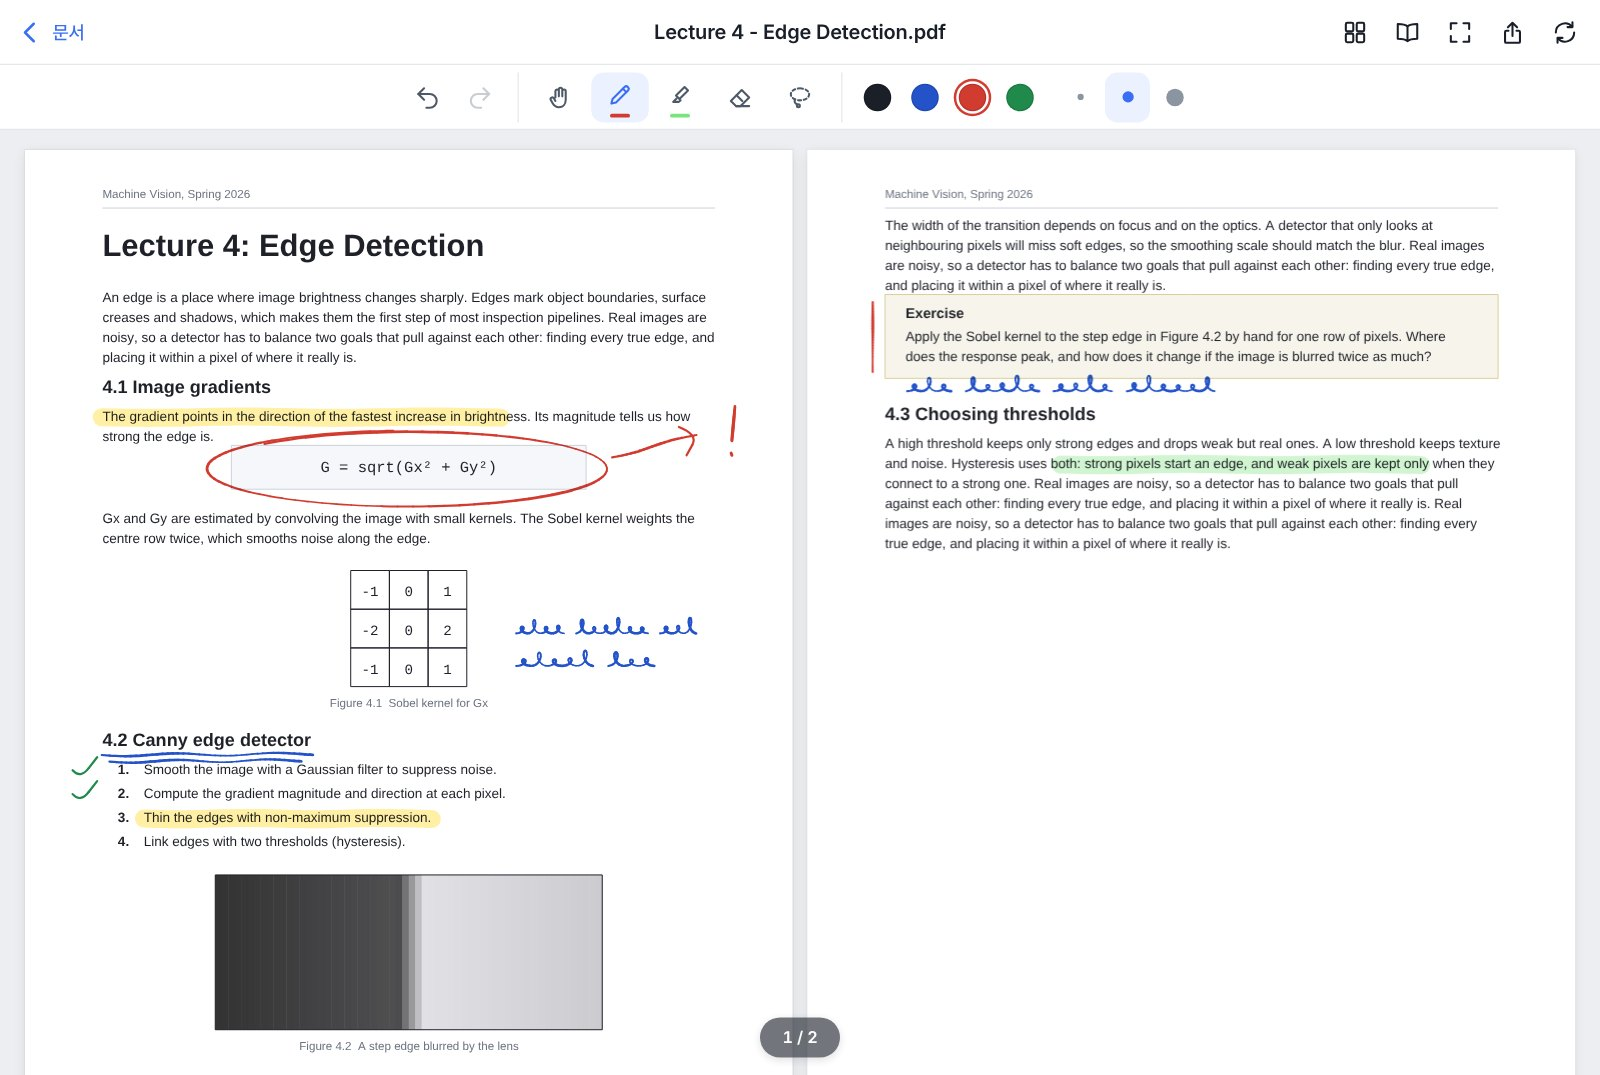
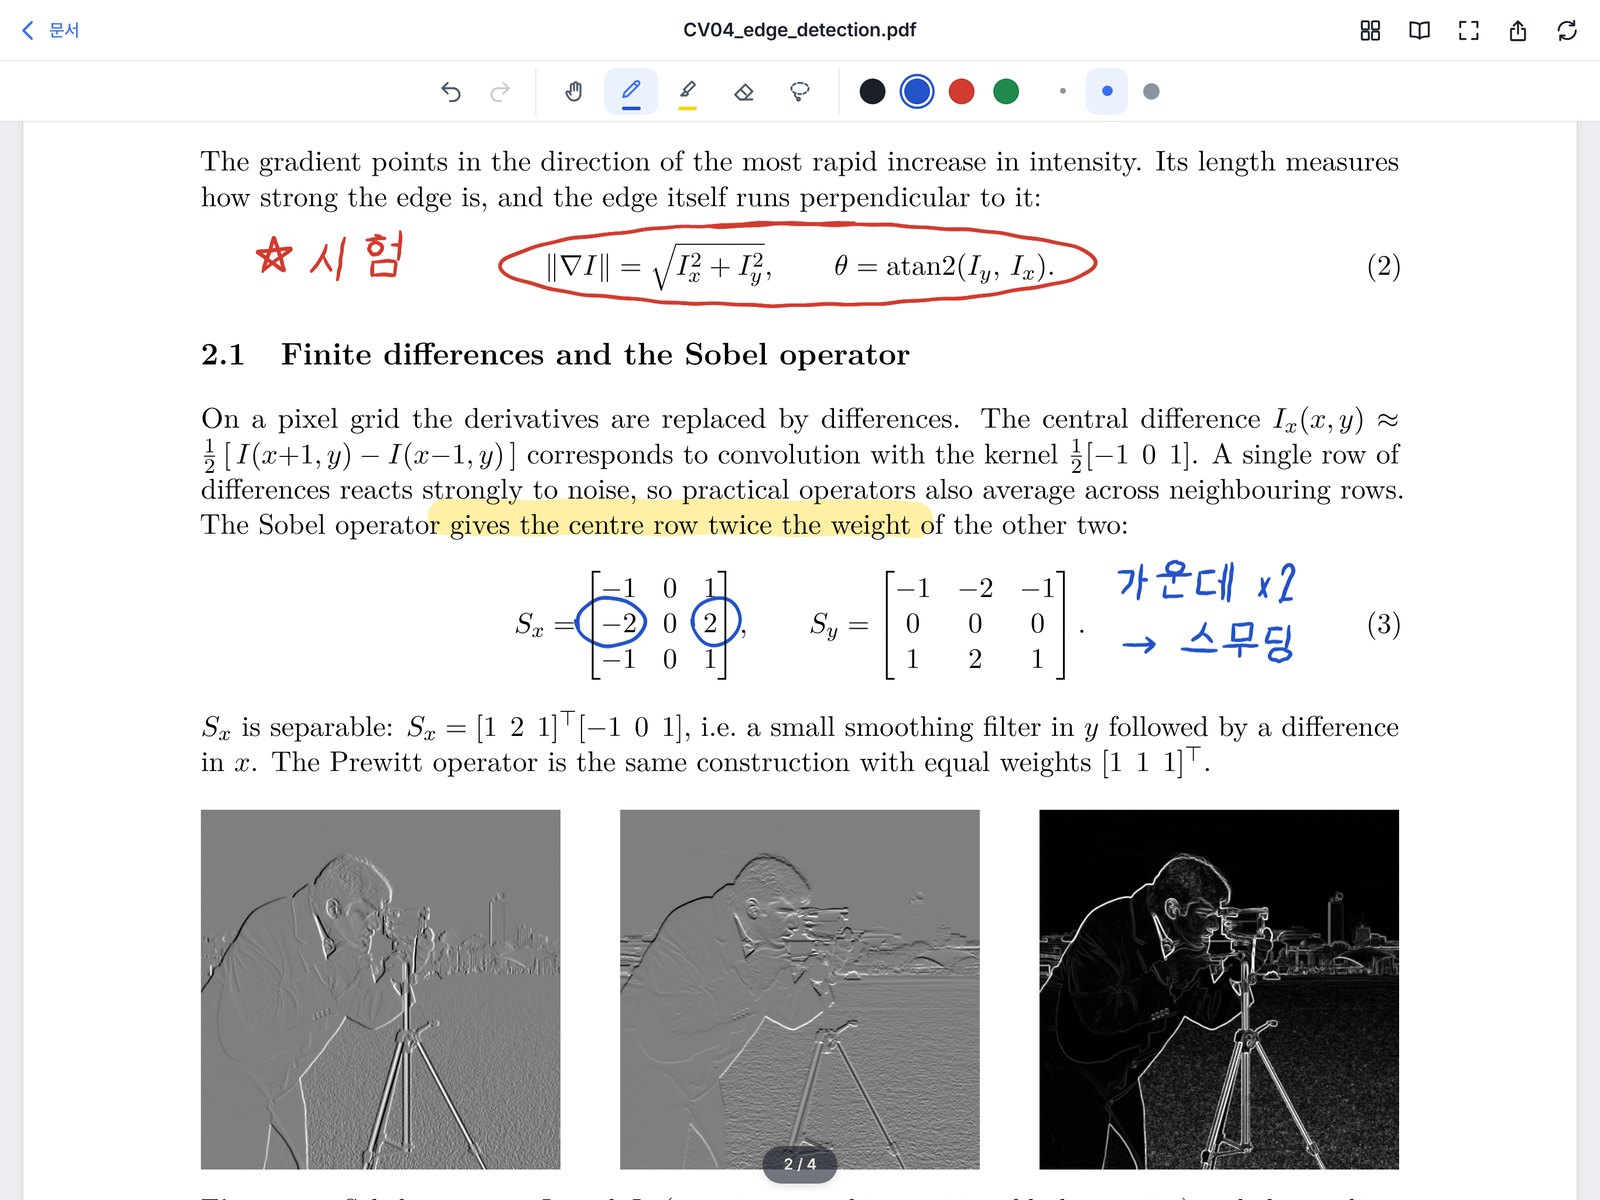
Show a real page of Penmit PDF notes

diff --git a/index.html b/index.html
@@ -295,7 +295,7 @@ footer { border-top: 1px solid var(--line); padding: 1.5rem 0 2.5rem; color: var
     <h2>Projects</h2>
     <div class="feature">
       <figure>
-        <img src="assets/penmit-pdf-tablet.jpg" width="1600" height="1075" alt="Penmit PDF on a tablet: two pages of lecture notes with pen, highlighter and handwritten notes, under a toolbar of writing tools">
+        <img src="assets/penmit-pdf-tablet.jpg" width="1600" height="1200" alt="Penmit PDF on a tablet: a page of edge-detection lecture notes with a yellow highlight, an equation circled in red and marked for the exam, and handwritten Korean notes in blue">
       </figure>
       <div>
         <h3>Penmit PDF</h3>
